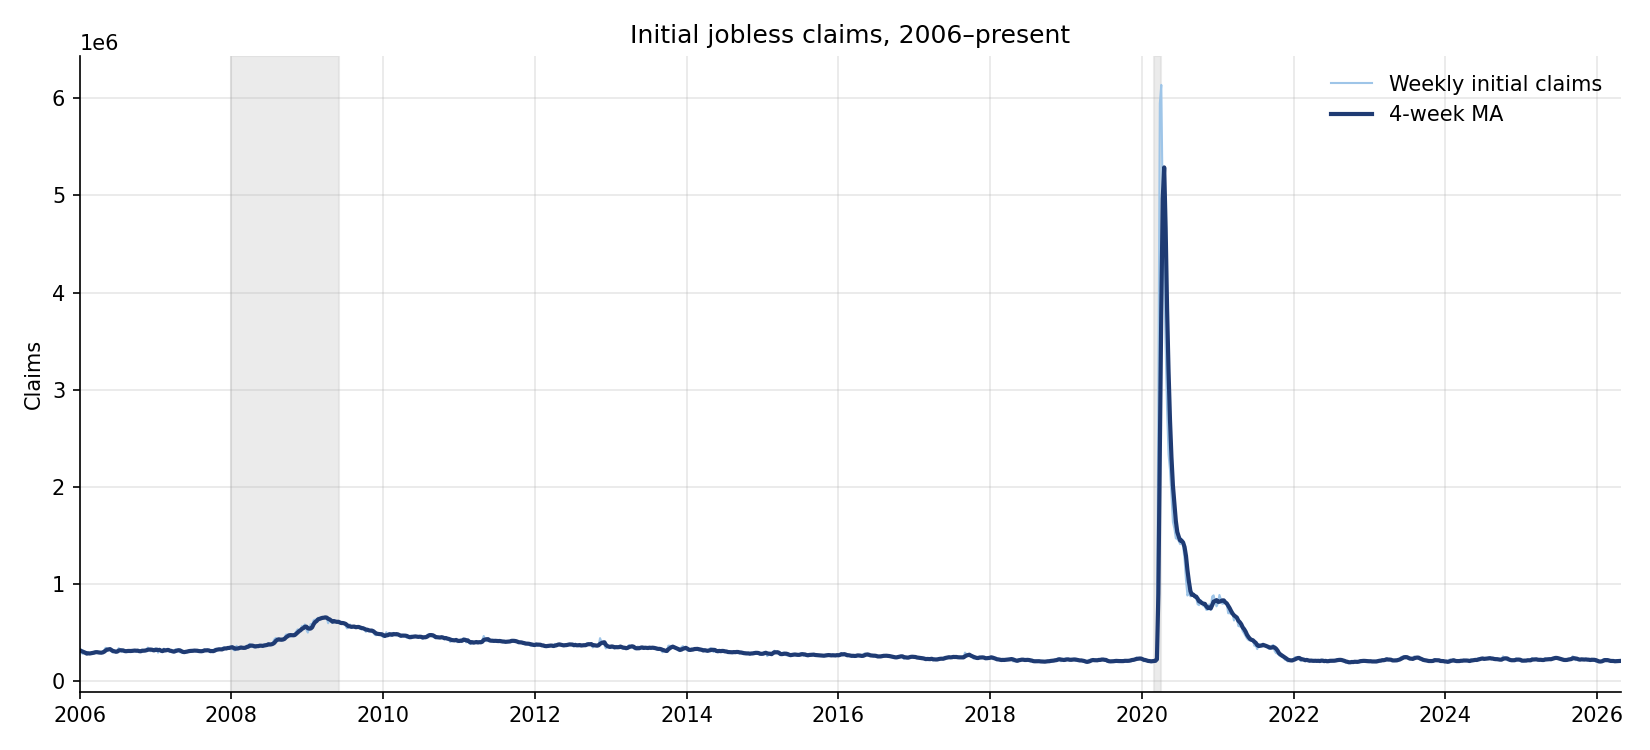
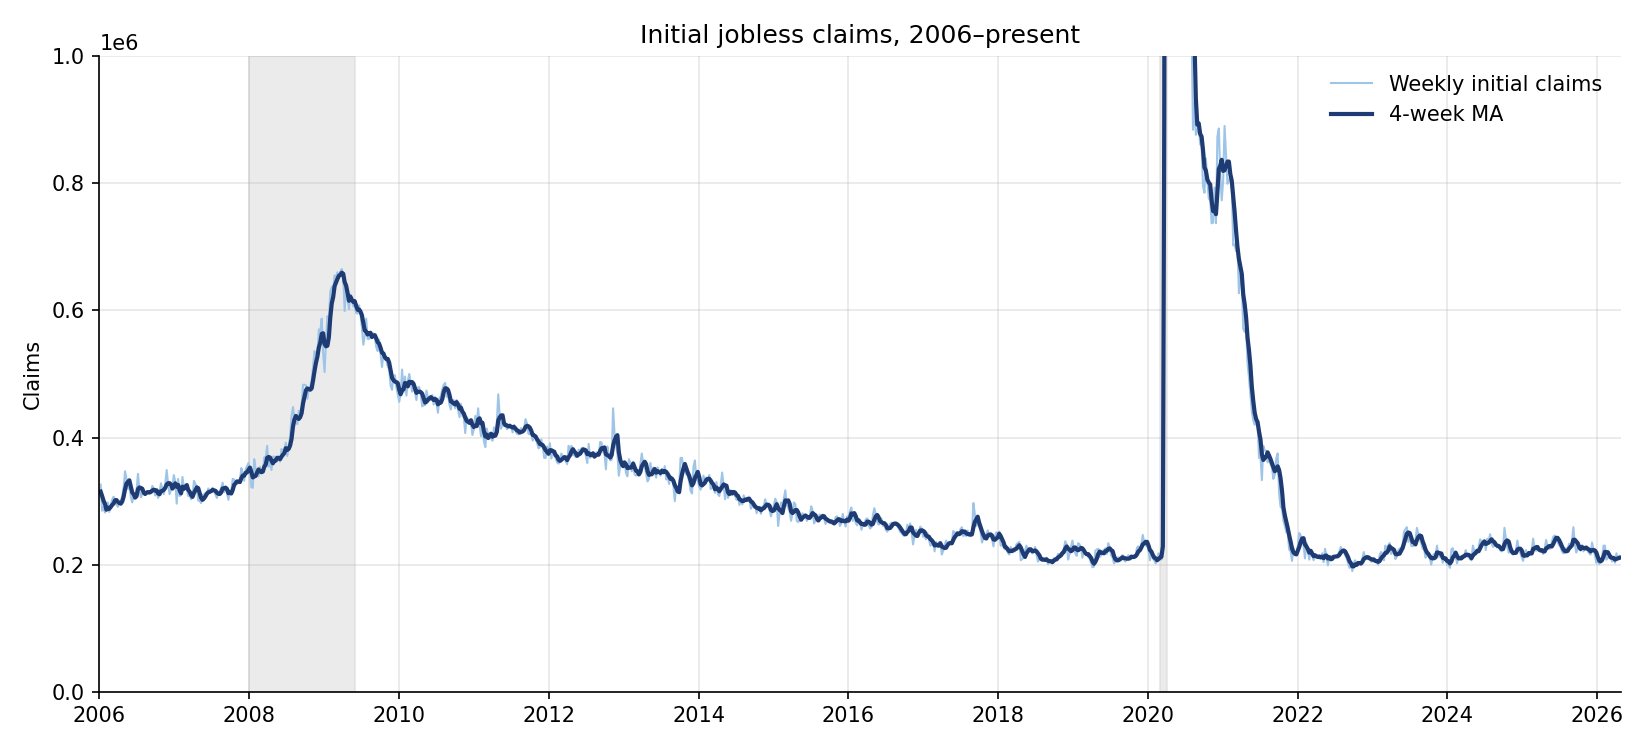
Clip y-axes on labor charts so COVID doesn't compress the rest of the cycle (#14)
Add explicit ylim to all four labor charts:
- payrolls.png: (-5000, 5000) — COVID -20M / +5M run off-axis by design
- jobless_claims.png: (0, 1_000_000) — COVID 6M+ peak runs off-axis
- unemployment.png: (0, 10) — COVID 14.8% peak runs off-axis
- sahm_rule.png: (-0.5, 4) — COVID 9.5pp peak runs off-axis

Trade-off accepted: COVID period visibly clips, in exchange for the GFC, the
2024 Sahm false-fire, and the current cycle becoming legible at chart scale.

diff --git a/macro/labor_pull.py b/macro/labor_pull.py
@@ -93,6 +93,9 @@ style_macro_chart(
     ax,
     title="Nonfarm payrolls — monthly change, 2006–present",
     ylabel="Jobs added (thousands)",
+    # Clipped at +/-5000 so the COVID swing (-20M / +5M) doesn't compress the
+    # rest of the cycle. COVID bars/MA visibly run off-axis by design.
+    ylim=(-5000, 5000),
     recessions=recessions,
     hlines=[{"y": 0.0}],
 )
@@ -111,6 +114,8 @@ style_macro_chart(
     ax,
     title="Initial jobless claims, 2006–present",
     ylabel="Claims",
+    # Clipped at 1M so the COVID 6M+ peak doesn't compress GFC and current.
+    ylim=(0, 1_000_000),
     recessions=recessions,
 )
 fig.tight_layout()
@@ -126,6 +131,8 @@ style_macro_chart(
     ax,
     title="Unemployment rate, 2006–present",
     ylabel="Percent",
+    # Clipped at 10% so the COVID ~14.8% spike doesn't compress GFC and trend.
+    ylim=(0, 10),
     recessions=recessions,
 )
 fig.tight_layout()
@@ -141,6 +148,9 @@ style_macro_chart(
     ax,
     title="Sahm Rule recession indicator (real-time), 2006–present",
     ylabel="Percentage points",
+    # Clipped at 4pp so the COVID 9.5pp peak doesn't compress GFC and current.
+    # Lower bound preserves the small post-GFC negative readings.
+    ylim=(-0.5, 4),
     recessions=recessions,
     hlines=[{"y": 0.5, "label": "Recession trigger", "color": "#c0392b"}],
 )
